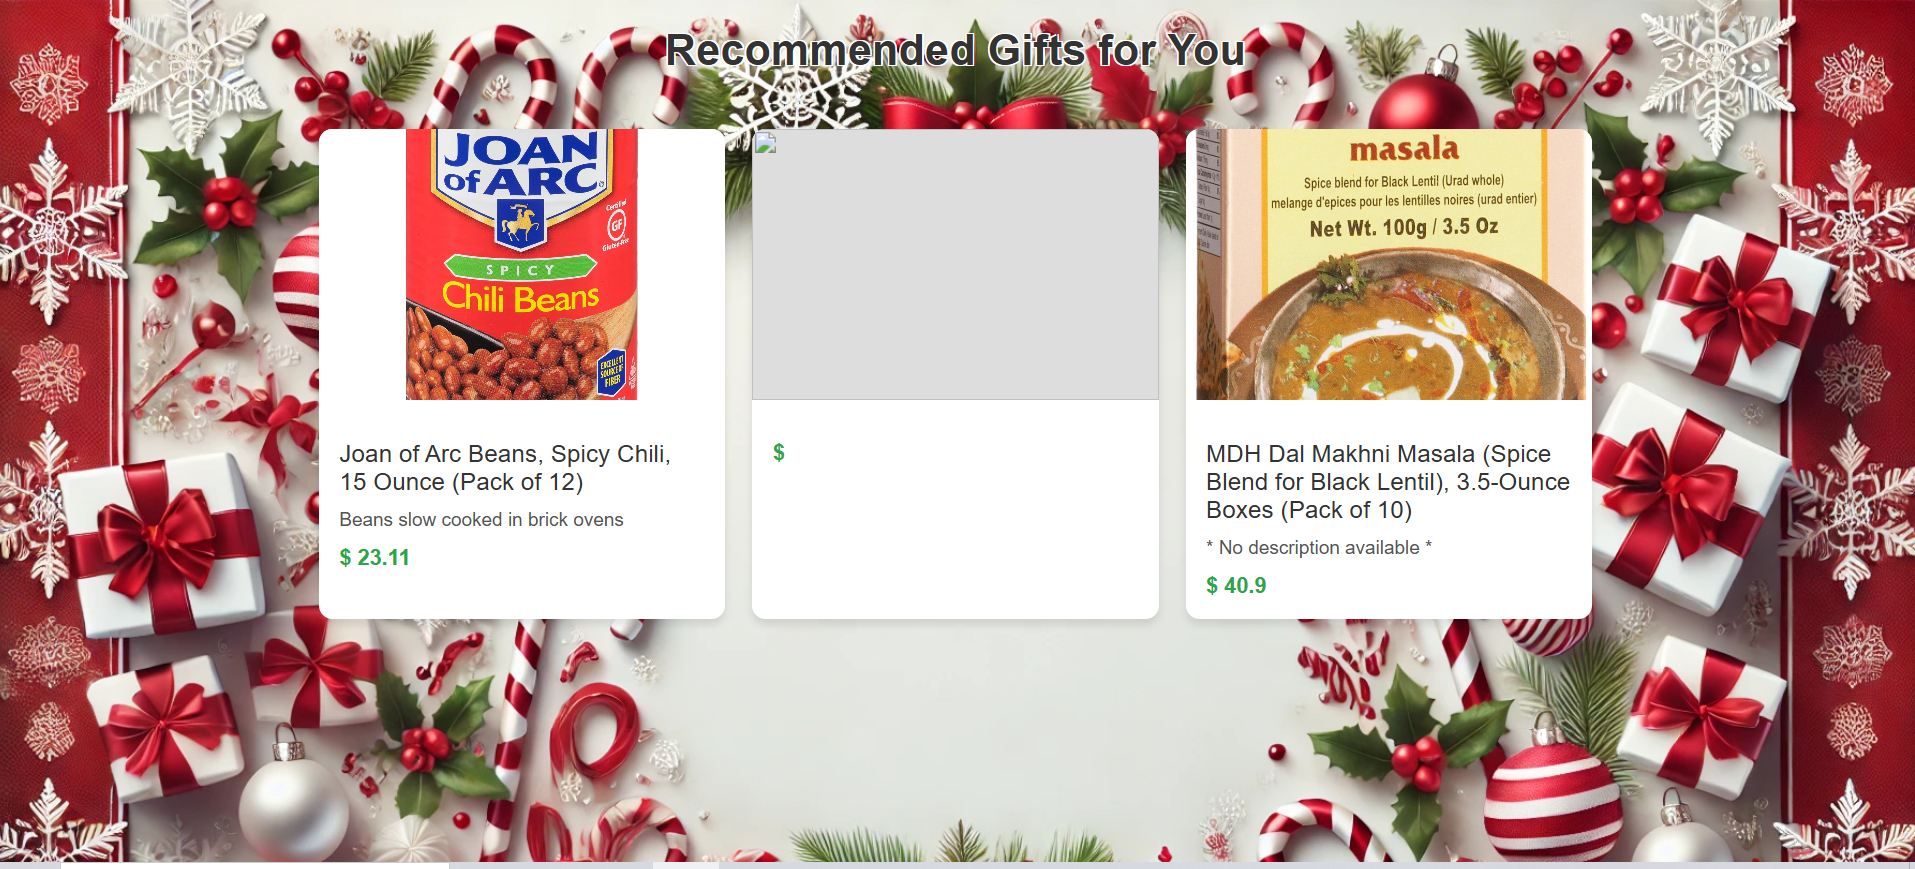
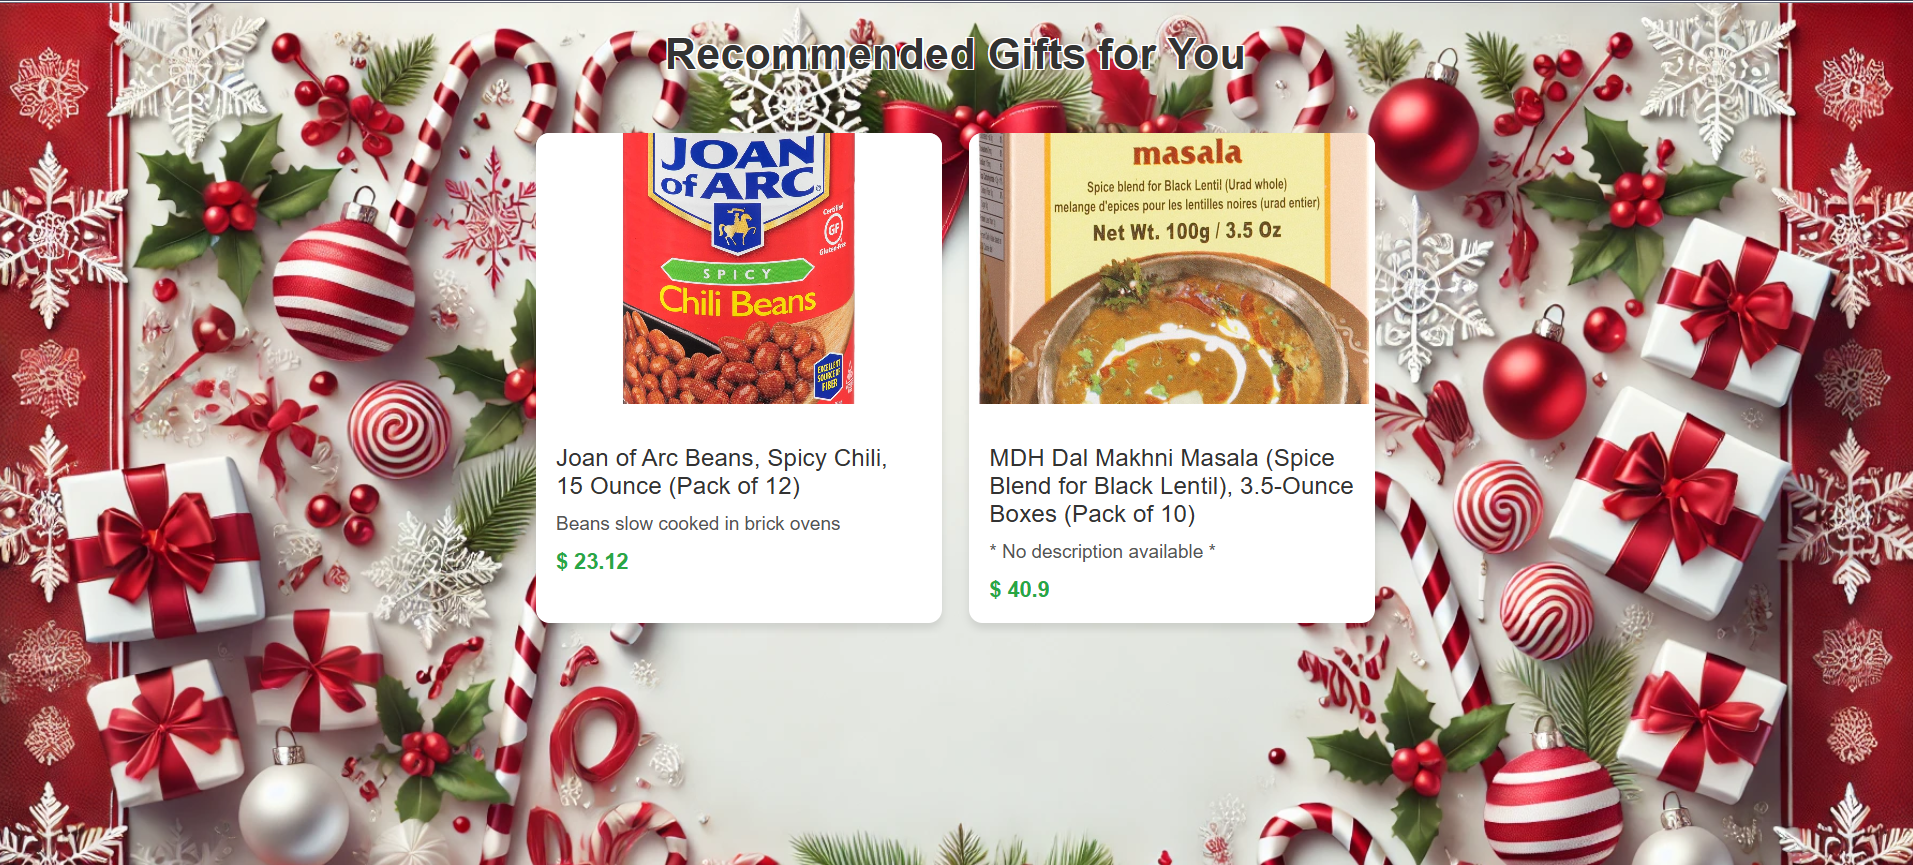
last commit

diff --git a/scripts/product_details.py b/scripts/product_details.py
@@ -27,18 +27,17 @@ class ProductDetails:
 
         if remaining_requests <= 0:
             print(time_to_renew)
-            return (496, time_to_renew)
+            return [496, time_to_renew]
         else:
             if response.status_code != 200:
-                return ('error',response.status_code)
+                return ['error',response.status_code]
             
             else:
                 result = response.json()
-
                 details = {
-                    "title": result.get('productTitle', 'unavailable'),
+                    "title": result['productTitle'] if result['productTitle'] else 'unavailable',
                     "description": result['features'][0] if result['features'] else '* No description available *',
                     "price": result['price'] if result['price'] else 'unavailable',
-                    "image": result.get('imageUrlList', ['https://placehold.jp/300x300.png'])[0],
+                    "image": result['imageUrlList'][0] if result['imageUrlList'] else 'https://placehold.jp/300x300.png',
                 }
                 return details

diff --git a/app.py b/app.py
@@ -31,12 +31,18 @@ def recommendations():
         if idx >= 5:
             break
         details = productdetails.fetchDetails(product)
+        print(product)
 
-        if isinstance(details, list) and len(details) > 1:
+        if isinstance(details, list) and len(recommended_items) == 0:
             if 496 in details:
                 return render_template("rate_limit.html", seconds_left=details[1])
             elif 'error' in details:
                 return render_template("unexpected_error.html", error_message=details[1])
+        elif isinstance(details, list) and len(recommended_items) != 0:
+            if 496 in details:
+                continue
+            elif 'error' in details:
+                continue
         elif details:
             recommended_items.append(details)
 
